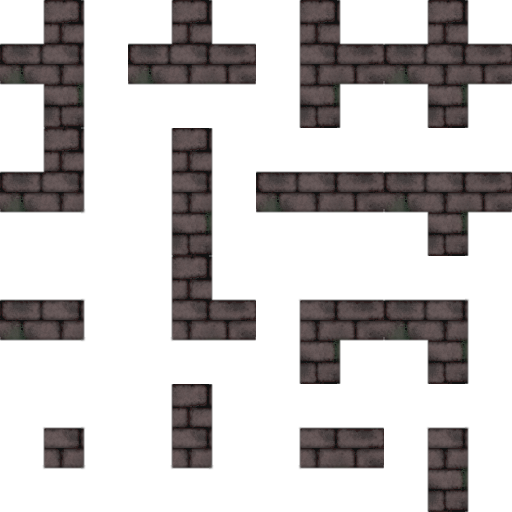
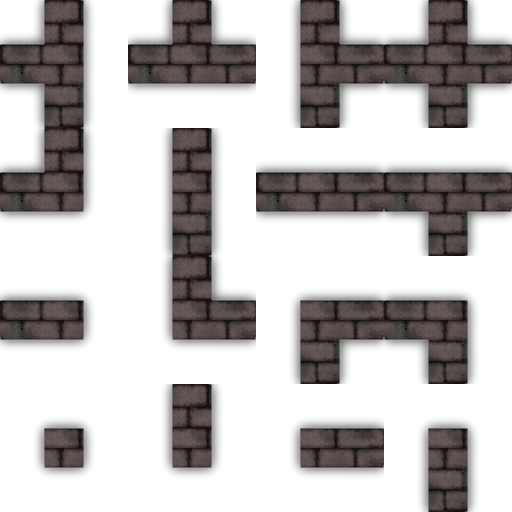
#11

diff --git a/assets/img/tiles/make_wall_tiles.py b/assets/img/tiles/make_wall_tiles.py
@@ -72,9 +72,7 @@ full_image_name = "bricks"
 def smooth_edges(tile_image, x1, y1, x2, y2):
     box = (x1, y1, x2, y2)
     ic = tile_image.crop(box)
-    # ic = ic.filter(ImageFilter.BLUR)
     ic = ic.filter(ImageFilter.SMOOTH)
-    # ic = ic.filter(ImageFilter.SMOOTH_MORE)
     tile_image.paste(ic, box)
 
 offset = 4
@@ -113,6 +111,9 @@ for remove_list in wall_remove_table:
     for part in remove_list:
         remove_part(draw, part)
 
+    cut_image = Image.new("RGBA", (tile_size * 3, tile_size * 3), (0,0,0,0))
+    cut_image.paste(tile_image, (tile_size, tile_size))
+    
     if index == 0:
         smooth_left(tile_image)
         smooth_right(tile_image)
@@ -177,13 +178,20 @@ for remove_list in wall_remove_table:
         smooth_bottomright(tile_image)
         smooth_topleft(tile_image)
         smooth_bottomleft(tile_image)
-
     del draw
 
+    for i in xrange(10):
+        cut_image = cut_image.filter(ImageFilter.BLUR)
+        cut_image = cut_image.filter(ImageFilter.SMOOTH)
+        cut_image = cut_image.filter(ImageFilter.SMOOTH_MORE)
+    cut_image = cut_image.crop((tile_size, tile_size, 2 * tile_size, 2 * tile_size))
+    cut_image.paste(tile_image, (0, 0), tile_image)
+    
     x = output_positions[index][0] * tile_size
     y = output_positions[index][1] * tile_size
-    output_image.paste(tile_image, (x,y))
+    output_image.paste(cut_image, (x, y))
 
     index += 1
 
 output_image.save(full_image_name + "_walls.png")
+print "done"
